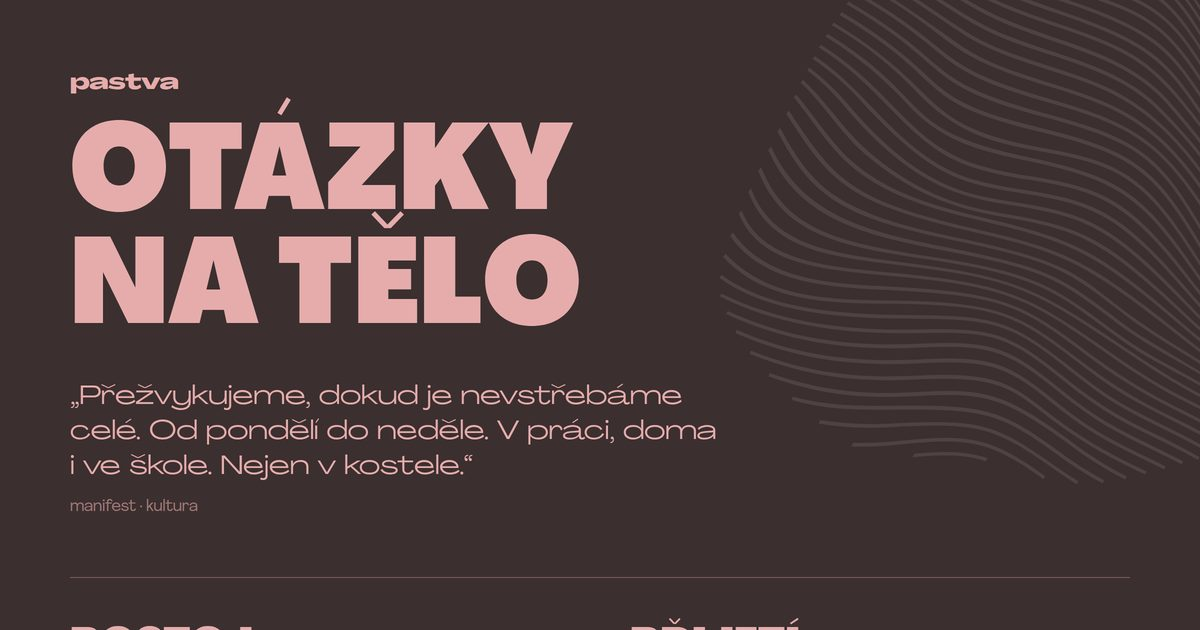
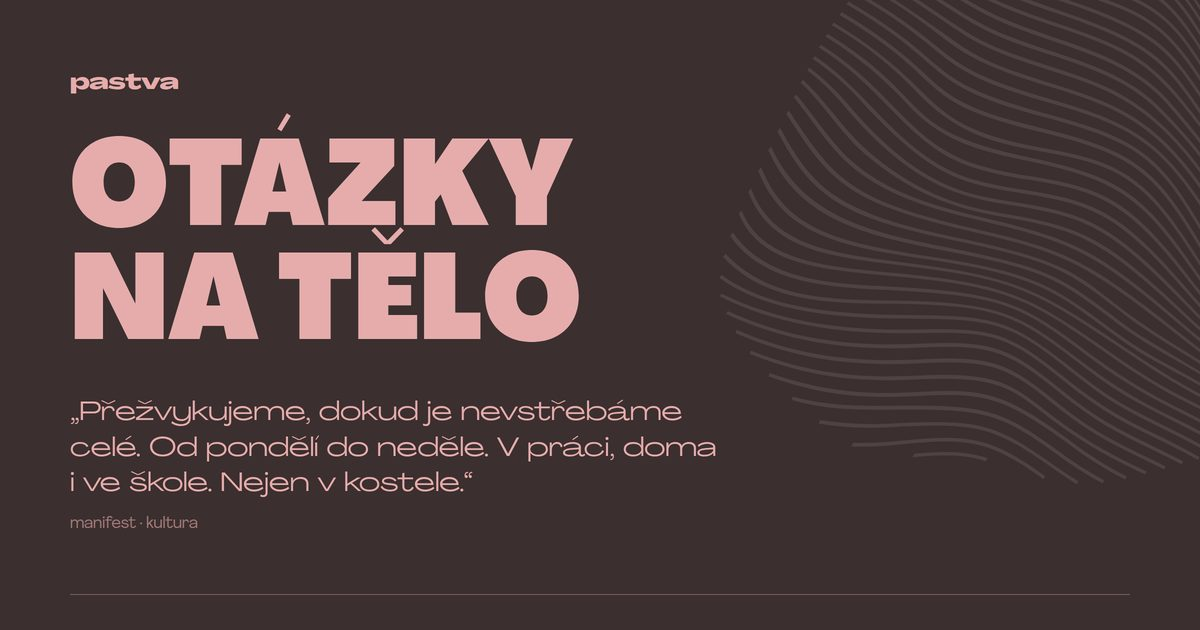
Víc vzduchu pod popiskem, A4 přestala tlačit patičku do okraje
Na obrazovce je mezera pod „pastvou“ zhruba dvojnásobná (24–56 px).

Na A4 se přitom ukázalo, že sazba přetékala: sloupce se nevešly do
zrcadla a patičku vytlačily 8 mm nad hranu listu místo 16. Proklad
otázek 1,38 → 1,34 a mezera mezi bloky 11 → 8 mm to vrátily na místo,
takže se nahoru vešel stejný nádech (titulek 8 mm pod popiskem) a
velikost písma otázek zůstala.

Claude-Session: https://claude.ai/code/session_01EuZUyoYTUJ1mDK8zD74LyA

diff --git a/otazky/docs/index.html b/otazky/docs/index.html
@@ -77,7 +77,7 @@ a{color:inherit}
 .title{
   font-family:var(--narrow);font-weight:900;text-transform:uppercase;
   font-size:clamp(2.9rem,11.5vw,7.5rem);line-height:.95;letter-spacing:0;
-  margin:clamp(14px,2.2vw,34px) 0 0;
+  margin:clamp(24px,3.6vw,56px) 0 0;
 }
 .lead{
   font-family:var(--grand);font-size:clamp(1.08rem,2.2vw,1.7rem);line-height:1.34;
@@ -143,18 +143,18 @@ a{color:inherit}
   .otisk.a{width:150mm;top:-34mm;right:-42mm;left:auto}
   .otisk.b{width:120mm;bottom:-40mm;left:-46mm;right:auto}
   .eyebrow{font-size:11pt}
-  .title{font-size:52pt;line-height:.97;margin:6mm 0 0}
+  .title{font-size:52pt;line-height:.97;margin:8mm 0 0}
   .lead{font-size:12.5pt;line-height:1.32;margin:5mm 0 0;max-width:126mm}
   .lead .src{font-size:8.5pt;margin-top:2mm}
   .rule{flex:none;margin:8mm 0 7mm}       /* bez flex:none by se linka ve sloupci stlačila na nulu */
   .cols{display:flex;flex:1;gap:11mm;grid-template-columns:none}
   .col{display:block;flex:1;min-width:0}
-  .block{margin-bottom:11mm;break-inside:avoid}
+  .block{margin-bottom:8mm;break-inside:avoid}
   .block h2{font-size:24pt;margin:0 0 1.5mm}
   .block h2 .n{font-size:10pt}
   .block ul{margin:0}
-  .block li{font-size:12pt;line-height:1.38}
-  .block li+li{margin-top:3.4mm;padding-top:0;border-top:0}
+  .block li{font-size:12pt;line-height:1.34}
+  .block li+li{margin-top:3.1mm;padding-top:0;border-top:0}
   .foot{border-top:.5pt solid rgba(230,172,172,.35);padding-top:4mm;margin-top:auto;flex-wrap:nowrap}
   .foot .web{font-size:8.5pt;opacity:.7}
   .foot .web a{text-decoration:none}

diff --git a/otazky/src/index.template.html b/otazky/src/index.template.html
@@ -77,7 +77,7 @@ a{color:inherit}
 .title{
   font-family:var(--narrow);font-weight:900;text-transform:uppercase;
   font-size:clamp(2.9rem,11.5vw,7.5rem);line-height:.95;letter-spacing:0;
-  margin:clamp(14px,2.2vw,34px) 0 0;
+  margin:clamp(24px,3.6vw,56px) 0 0;
 }
 .lead{
   font-family:var(--grand);font-size:clamp(1.08rem,2.2vw,1.7rem);line-height:1.34;
@@ -143,18 +143,18 @@ a{color:inherit}
   .otisk.a{width:150mm;top:-34mm;right:-42mm;left:auto}
   .otisk.b{width:120mm;bottom:-40mm;left:-46mm;right:auto}
   .eyebrow{font-size:11pt}
-  .title{font-size:52pt;line-height:.97;margin:6mm 0 0}
+  .title{font-size:52pt;line-height:.97;margin:8mm 0 0}
   .lead{font-size:12.5pt;line-height:1.32;margin:5mm 0 0;max-width:126mm}
   .lead .src{font-size:8.5pt;margin-top:2mm}
   .rule{flex:none;margin:8mm 0 7mm}       /* bez flex:none by se linka ve sloupci stlačila na nulu */
   .cols{display:flex;flex:1;gap:11mm;grid-template-columns:none}
   .col{display:block;flex:1;min-width:0}
-  .block{margin-bottom:11mm;break-inside:avoid}
+  .block{margin-bottom:8mm;break-inside:avoid}
   .block h2{font-size:24pt;margin:0 0 1.5mm}
   .block h2 .n{font-size:10pt}
   .block ul{margin:0}
-  .block li{font-size:12pt;line-height:1.38}
-  .block li+li{margin-top:3.4mm;padding-top:0;border-top:0}
+  .block li{font-size:12pt;line-height:1.34}
+  .block li+li{margin-top:3.1mm;padding-top:0;border-top:0}
   .foot{border-top:.5pt solid rgba(230,172,172,.35);padding-top:4mm;margin-top:auto;flex-wrap:nowrap}
   .foot .web{font-size:8.5pt;opacity:.7}
   .foot .web a{text-decoration:none}
